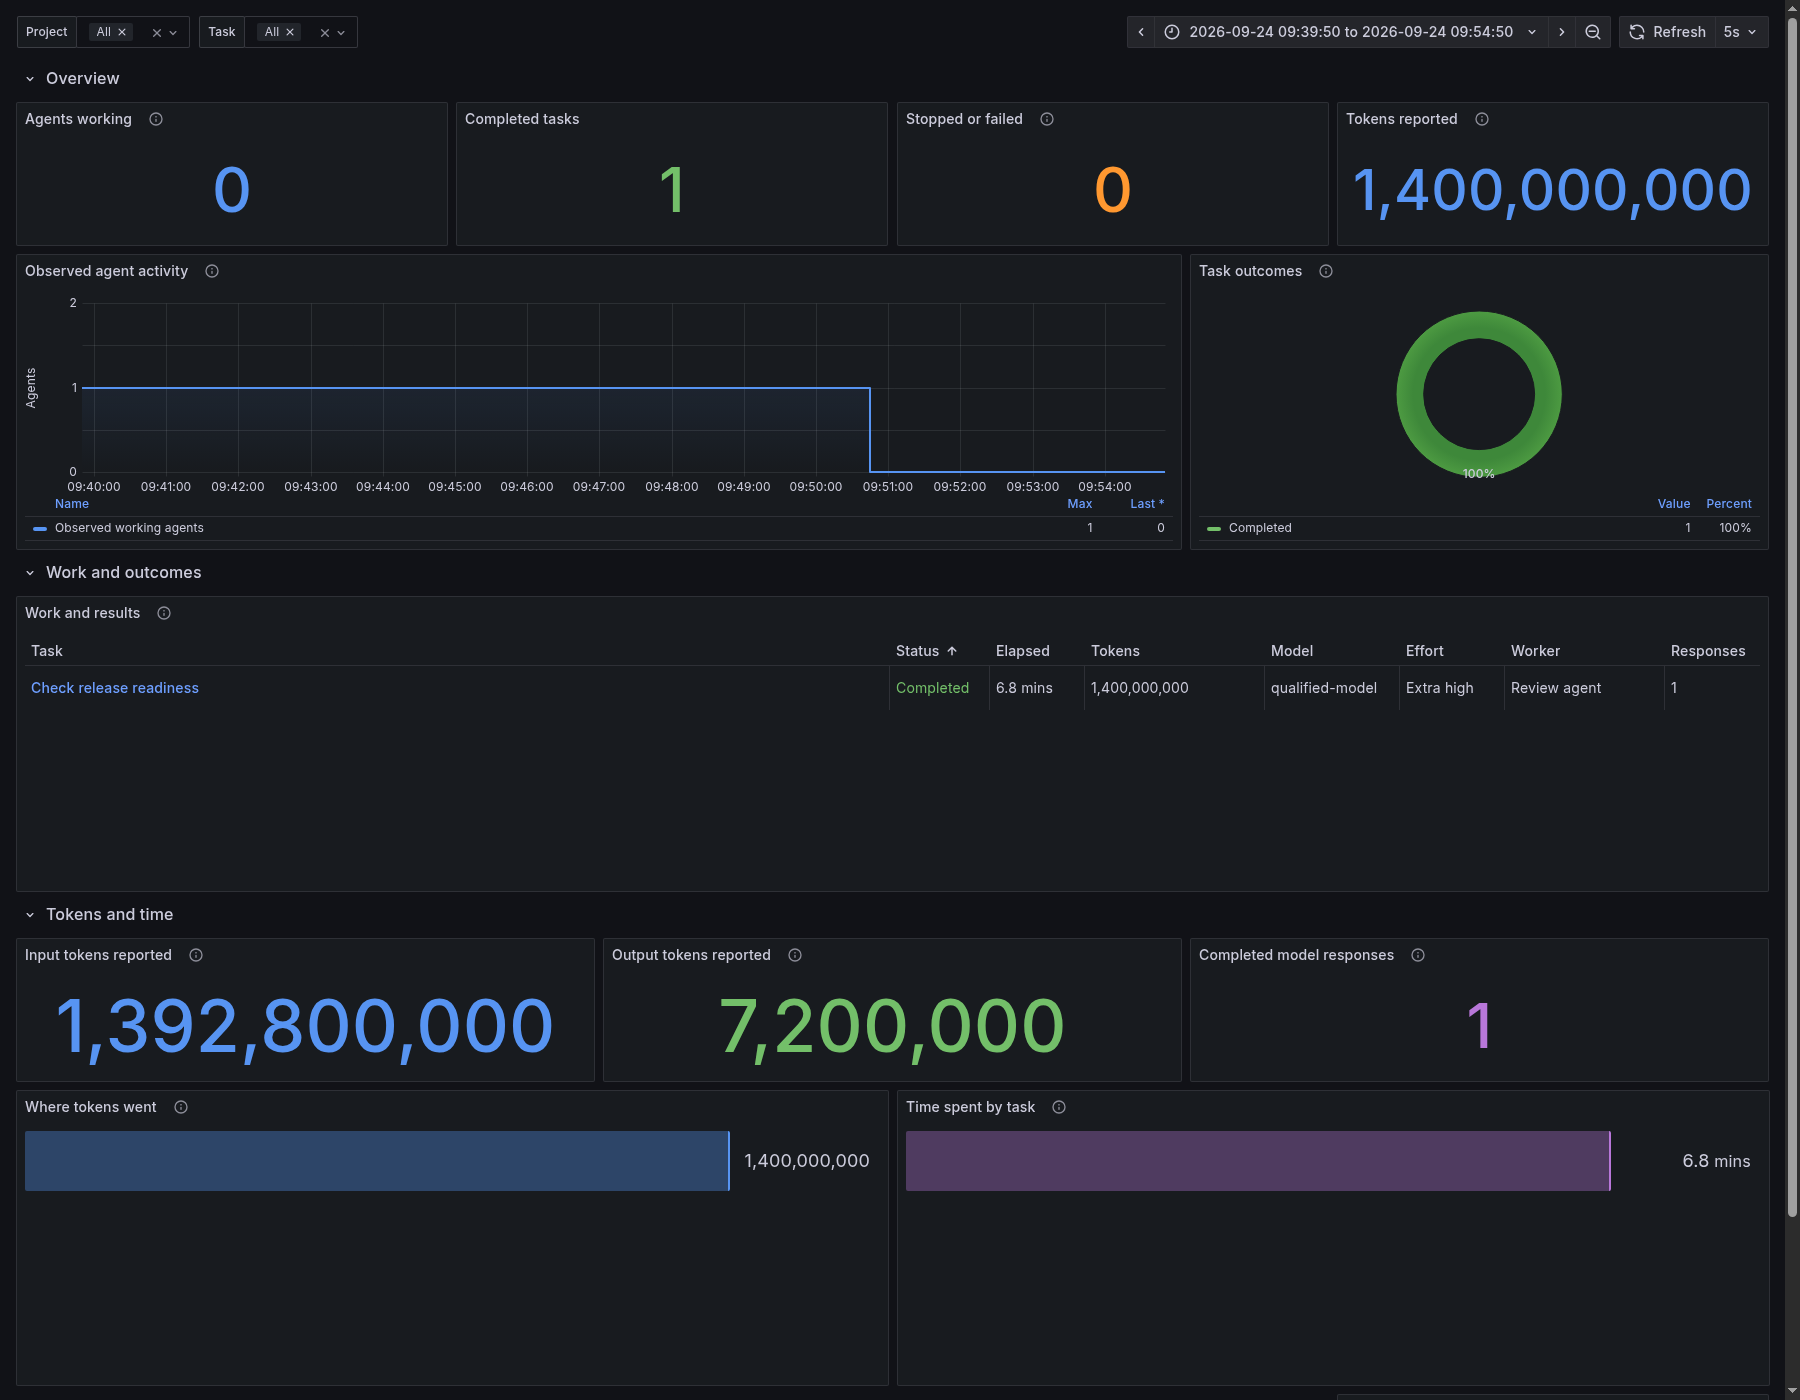
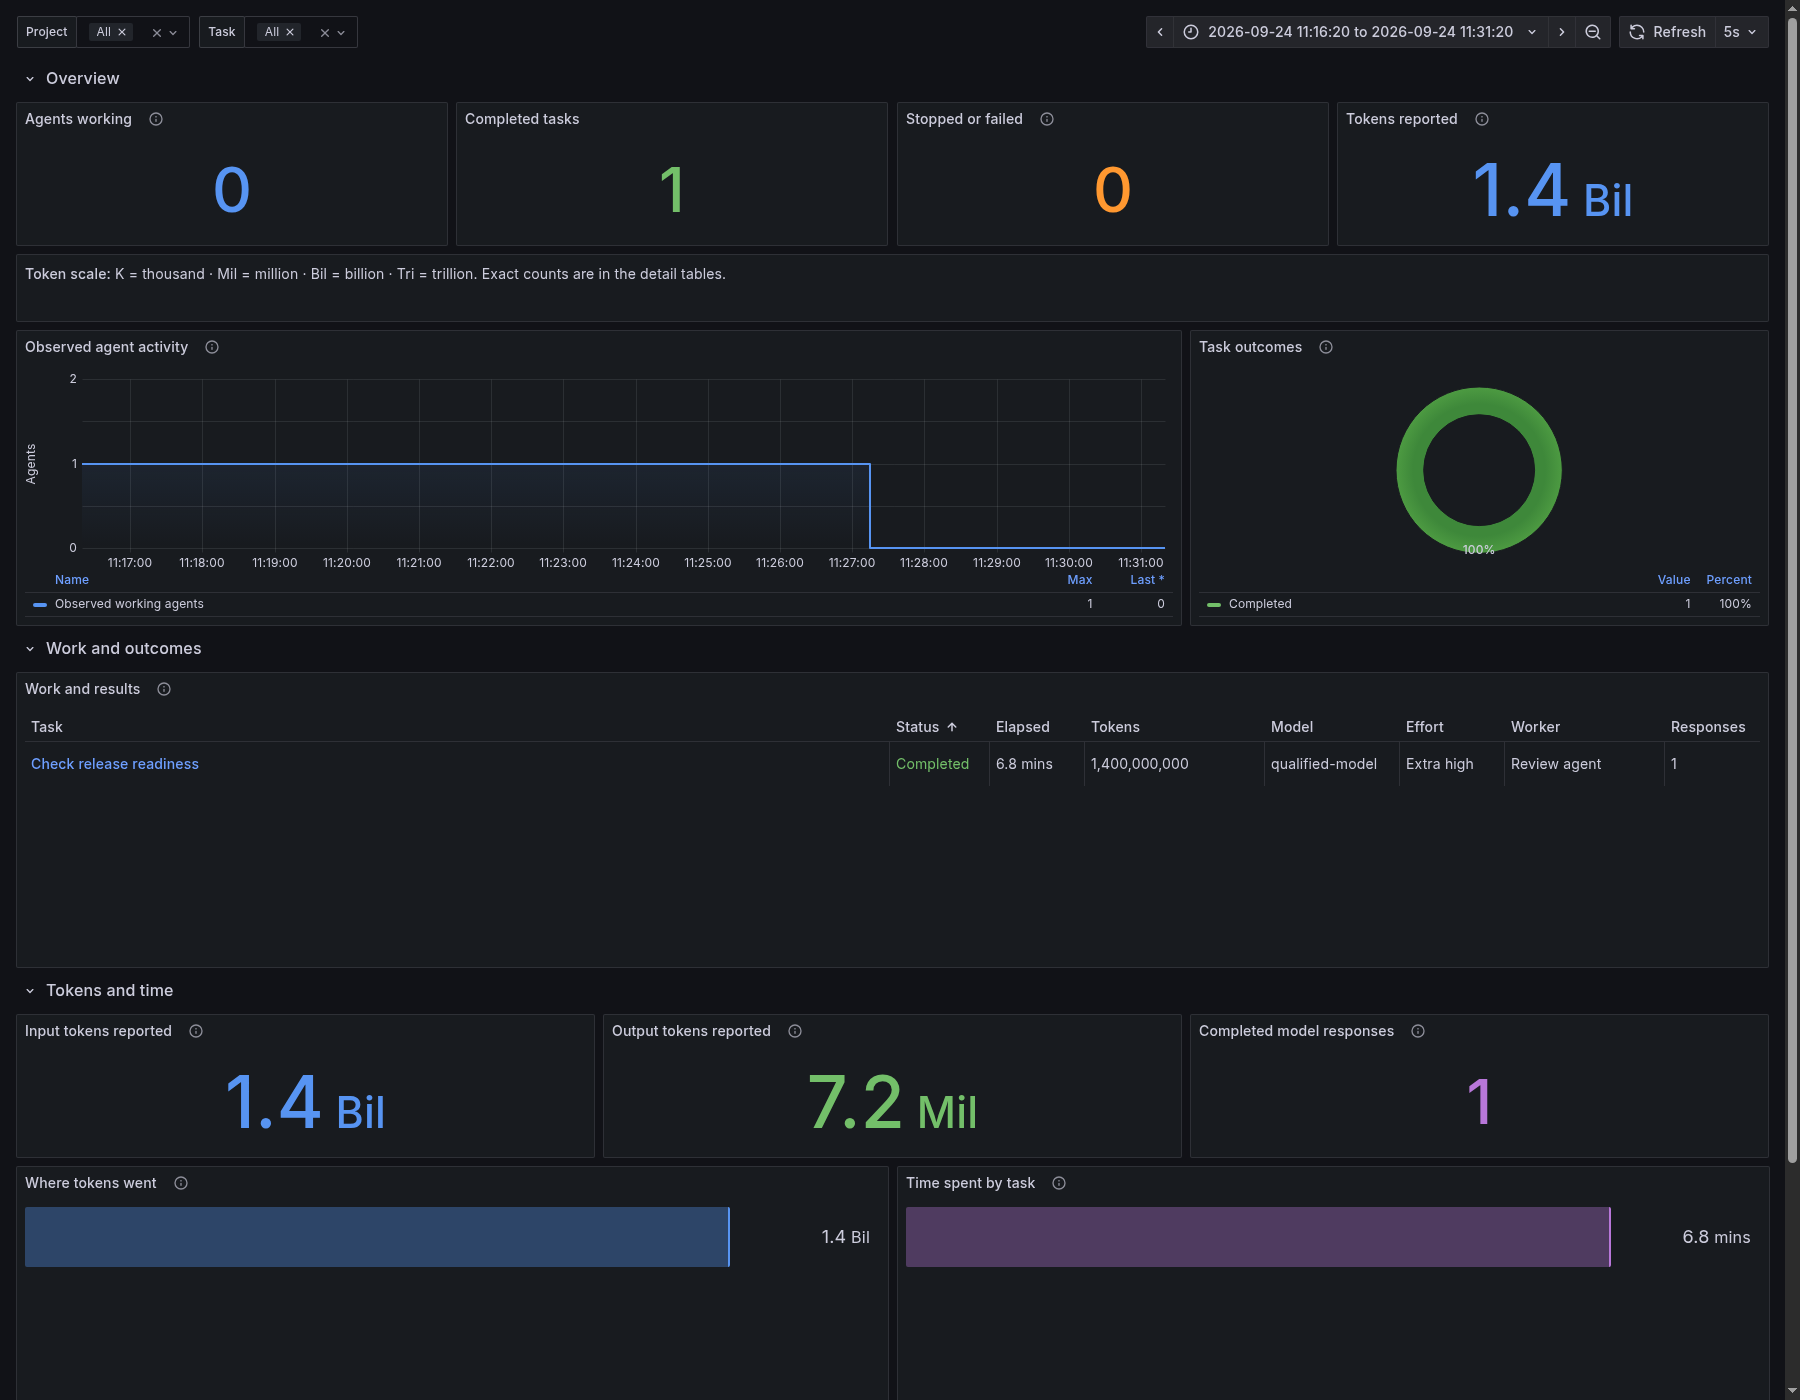
fix: restore readable token scaling

diff --git a/tests/test_dashboard_presentation.py b/tests/test_dashboard_presentation.py
@@ -11,6 +11,12 @@ DASHBOARDS = {
     "codex-all-sessions": ("All Sessions", "cwo-supervisor-observability-v1"),
     "cwo-observed-dispatches": ("CWO Dispatches", "cwo-dispatch-observability-v1"),
 }
+TOKEN_PANELS = {
+    "codex-work-overview-beta": {32, 33, 35, 80},
+    "codex-unified-overview": {32, 33, 35, 80},
+    "codex-all-sessions": {104, 160, 161, 111},
+    "cwo-observed-dispatches": {104, 160, 161, 111},
+}
 
 
 def objects(value):
@@ -47,25 +53,60 @@ class DashboardPresentationTests(unittest.TestCase):
                 data = json.loads((ROOT / f"examples/observability/{name}.json").read_text())
                 self.assertEqual((data["title"], data["uid"]), (title, uid))
 
-    def test_count_defaults_and_overrides_use_grouped_whole_numbers(self):
+    def test_token_summaries_use_native_compact_units_with_a_visible_legend(self):
+        for name, expected_ids in TOKEN_PANELS.items():
+            data = json.loads((ROOT / f"examples/observability/{name}.json").read_text())
+            panels = [node for node in objects(data) if "gridPos" in node]
+            compact_ids = {
+                panel["id"] for panel in panels
+                if panel.get("fieldConfig", {}).get("defaults", {}).get("unit") == "short"
+            }
+            with self.subTest(dashboard=name):
+                self.assertEqual(compact_ids, expected_ids)
+                for panel in panels:
+                    if panel["id"] in expected_ids:
+                        self.assertIn(panel["type"], ("stat", "bargauge"))
+                        self.assertEqual(panel["fieldConfig"]["defaults"]["decimals"], 1)
+                legends = [panel for panel in data["panels"] if panel["type"] == "text"
+                           and "Token scale:" in panel["options"]["content"]]
+                self.assertEqual(len(legends), 1, "Legend must be visible outside collapsed rows")
+                for label in ("K = thousand", "Mil = million", "Bil = billion", "Tri = trillion"):
+                    self.assertIn(label, legends[0]["options"]["content"])
+                self.assertIn("Exact counts", legends[0]["options"]["content"])
+                self.assertGreaterEqual(legends[0]["gridPos"]["h"], 2)
+
+    def test_exact_counts_stay_grouped_and_si_prefixes_are_absent(self):
         for name in DASHBOARDS:
             data = json.loads((ROOT / f"examples/observability/{name}.json").read_text())
             grouped = 0
             for node in objects(data):
                 with self.subTest(dashboard=name, node=node.get("title", node.get("matcher"))):
-                    self.assertNotIn(node.get("unit"), ("short", "sishort"))
+                    self.assertNotEqual(node.get("unit"), "sishort")
                     if node.get("unit") == "locale":
                         self.assertEqual(node["decimals"], 0)
                         grouped += 1
                     if node.get("type") == "stat" and "token" in node.get("title", "").lower():
                         self.assertNotIn("valueSize", node.get("options", {}).get("text", {}),
-                                         "Long token counts must fit the available panel width")
+                                         "Token counts must fit the available panel width")
                     properties = {item["id"]: item["value"] for item in node.get("properties", [])}
                     self.assertNotIn(properties.get("unit"), ("short", "sishort"))
                     if properties.get("unit") == "locale":
                         self.assertEqual(properties["decimals"], 0)
                         grouped += 1
             self.assertGreater(grouped, 0)
+
+    def test_expanded_panels_do_not_overlap(self):
+        for name in DASHBOARDS:
+            data = json.loads((ROOT / f"examples/observability/{name}.json").read_text())
+            for index, panel in enumerate(data["panels"]):
+                a = panel["gridPos"]
+                for other in data["panels"][index + 1:]:
+                    b = other["gridPos"]
+                    with self.subTest(dashboard=name, panels=(panel["id"], other["id"])):
+                        self.assertFalse(
+                            a["x"] < b["x"] + b["w"] and b["x"] < a["x"] + a["w"]
+                            and a["y"] < b["y"] + b["h"] and b["y"] < a["y"] + a["h"]
+                        )
 
 
 if __name__ == "__main__":

diff --git a/tests/test_codex_beta_dashboard.py b/tests/test_codex_beta_dashboard.py
@@ -458,7 +458,7 @@ class CodexBetaDashboardTests(unittest.TestCase):
         ):
             panel = self.panel(title)
             defaults = panel["fieldConfig"]["defaults"]
-            self.assertEqual(defaults["unit"], "locale")
+            self.assertEqual(defaults["unit"], "short")
             self.assertEqual(defaults["noValue"], "Not recorded")
             expression = panel["targets"][0]["expr"]
             self.assertIn(f'token_kind="{token_kind}"', expression)
@@ -488,7 +488,7 @@ class CodexBetaDashboardTests(unittest.TestCase):
 
     def test_ranked_history_uses_one_zero_based_scale_and_explicit_units(self) -> None:
         for title, unit, field in (
-            ("Recorded tokens by work", "locale", "Recorded tokens"),
+            ("Recorded tokens by work", "short", "Recorded tokens"),
             ("Observed turn time by work", "s", "Observed turn time"),
         ):
             panel = self.panel(title)

diff --git a/references/dashboards/reading-values.md b/references/dashboards/reading-values.md
@@ -27,7 +27,9 @@ Token, response and turn totals cover each selected session's recorded history. 
 | Stopped / failed | The latest turn stopped or failed. |
 | No recent signal | A turn remains open but has had no recent activity. |
 
-Counts use digit grouping, such as `1,400,000,000`, rather than abbreviated prefixes.
+Token summaries and comparison bars use compact values: **K = thousand, Mil = million, Bil = billion, Tri = trillion**. For example, `1.4 Bil` means 1.4 billion tokens and `7.2 Mil` means 7.2 million tokens. Each dashboard shows this legend beside its token summaries.
+
+Detail tables keep exact, grouped counts, such as `1,400,000,000`.
 
 ## Missing Values
 
